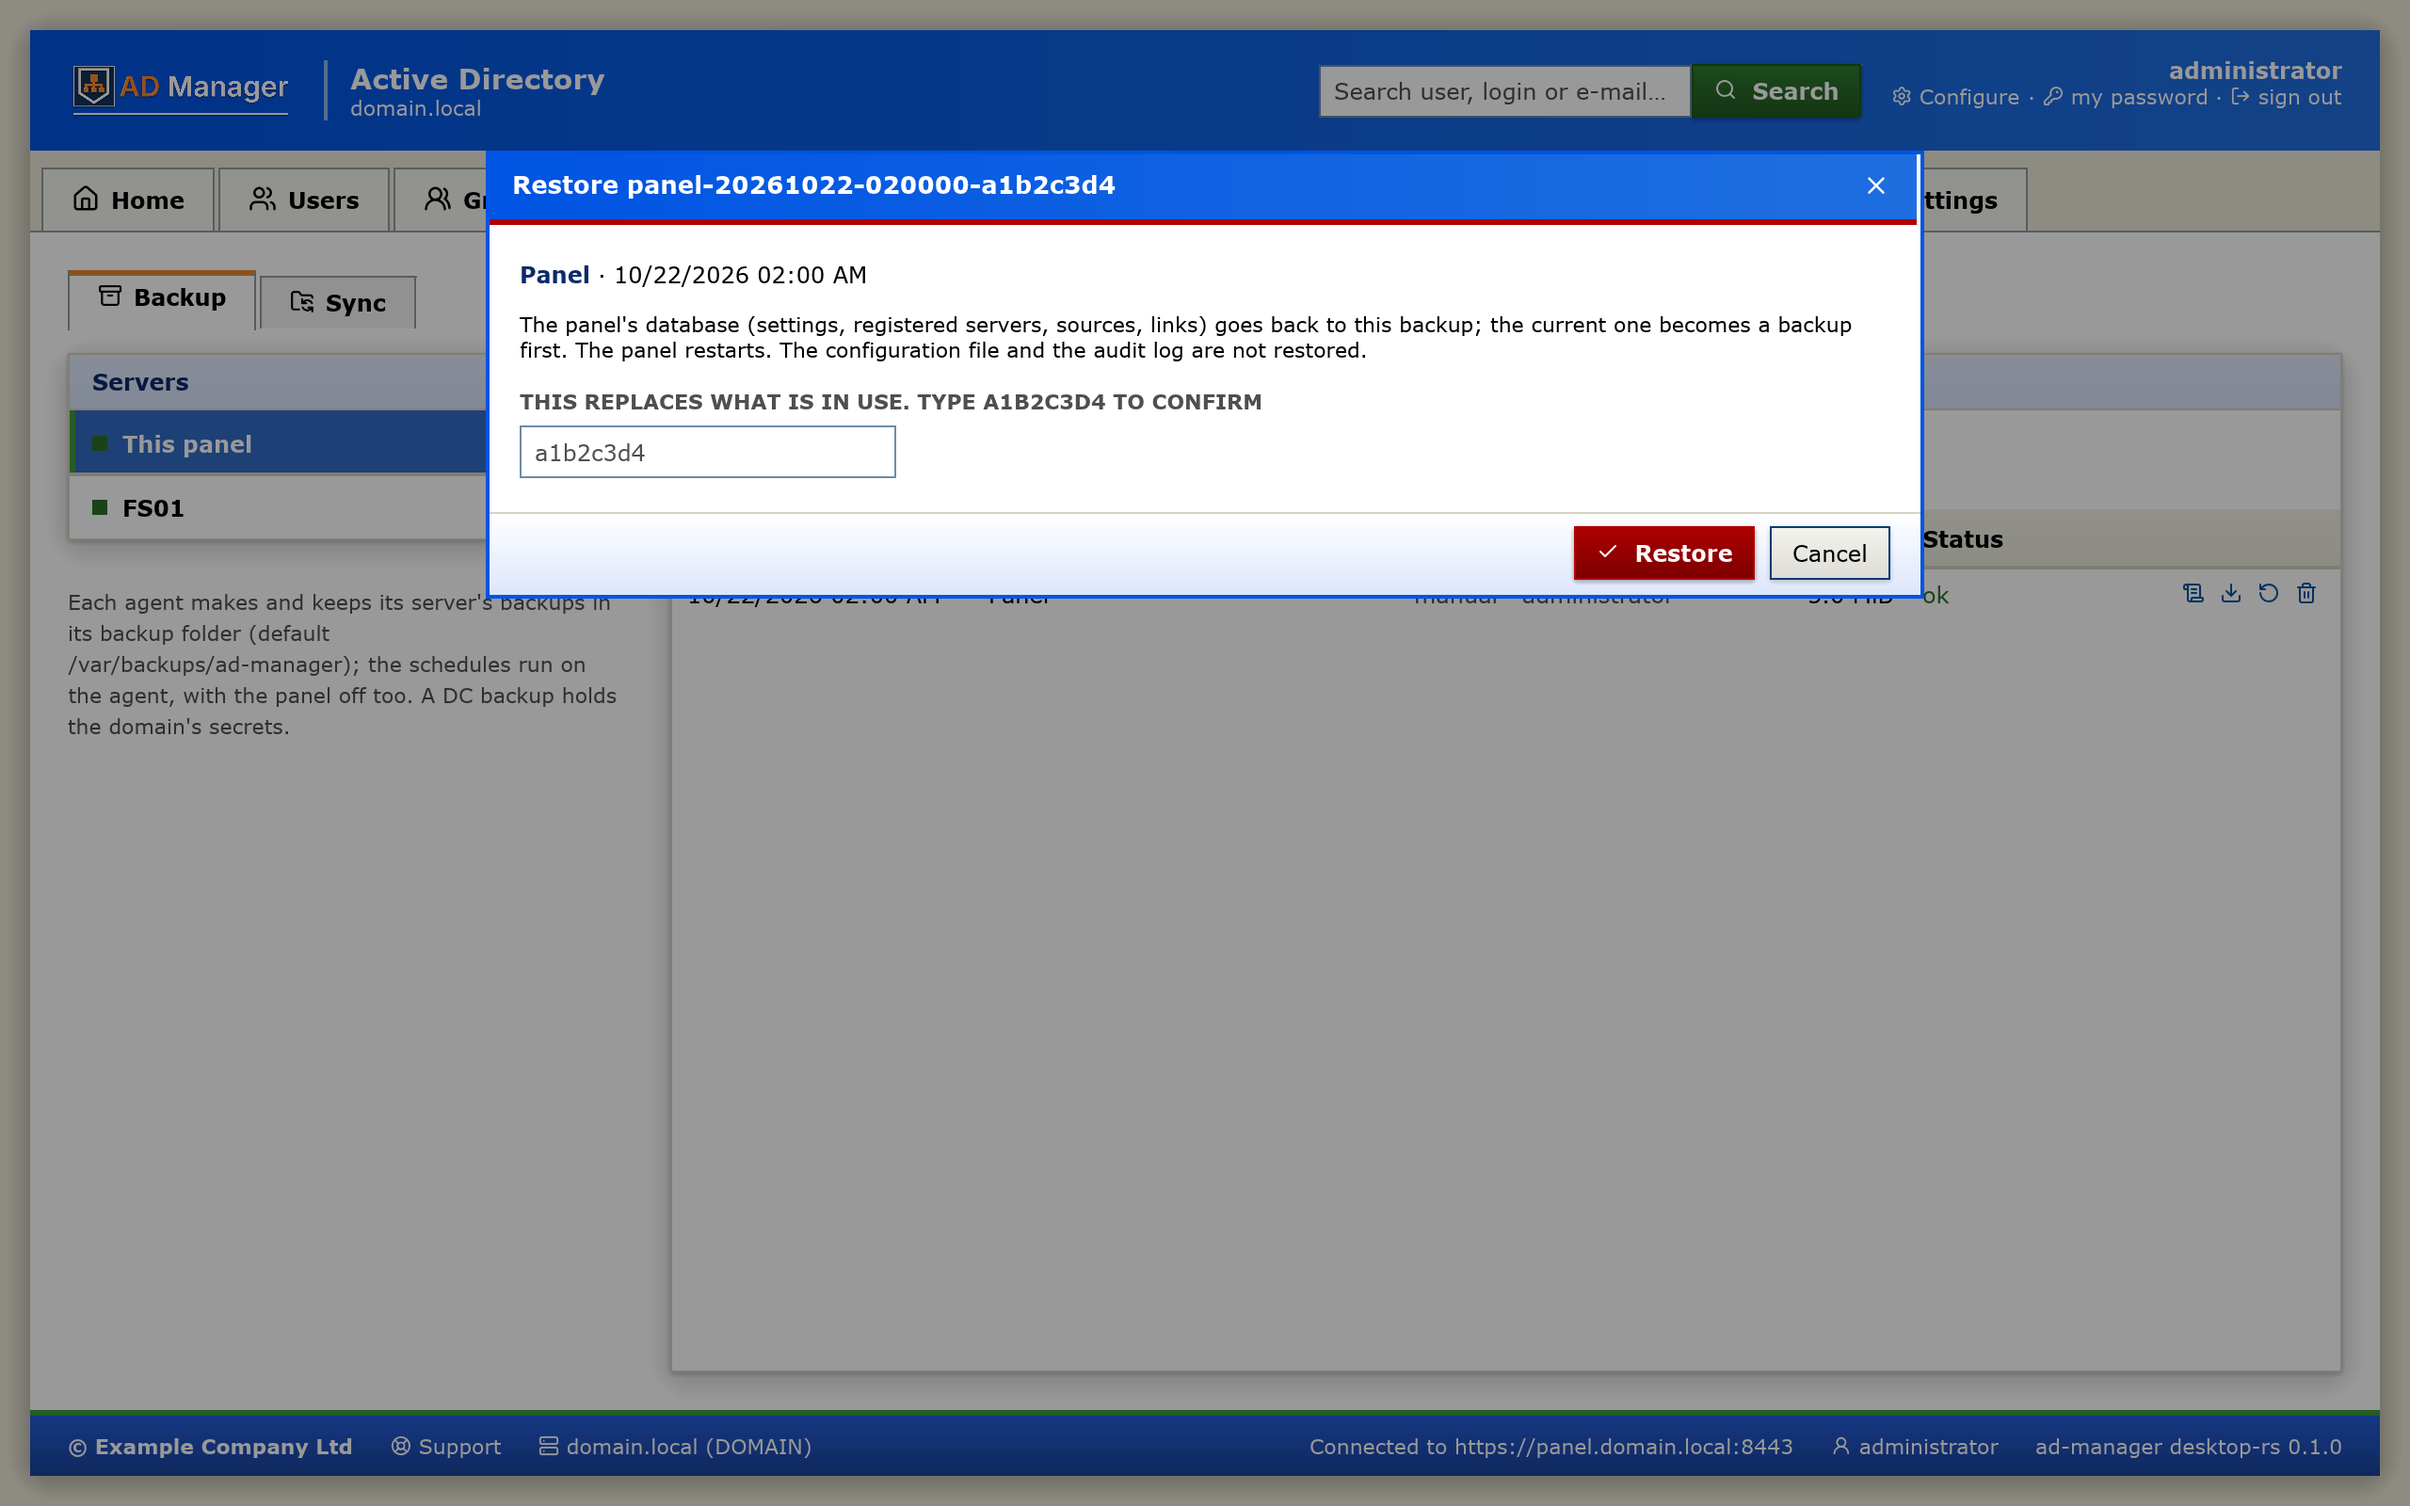
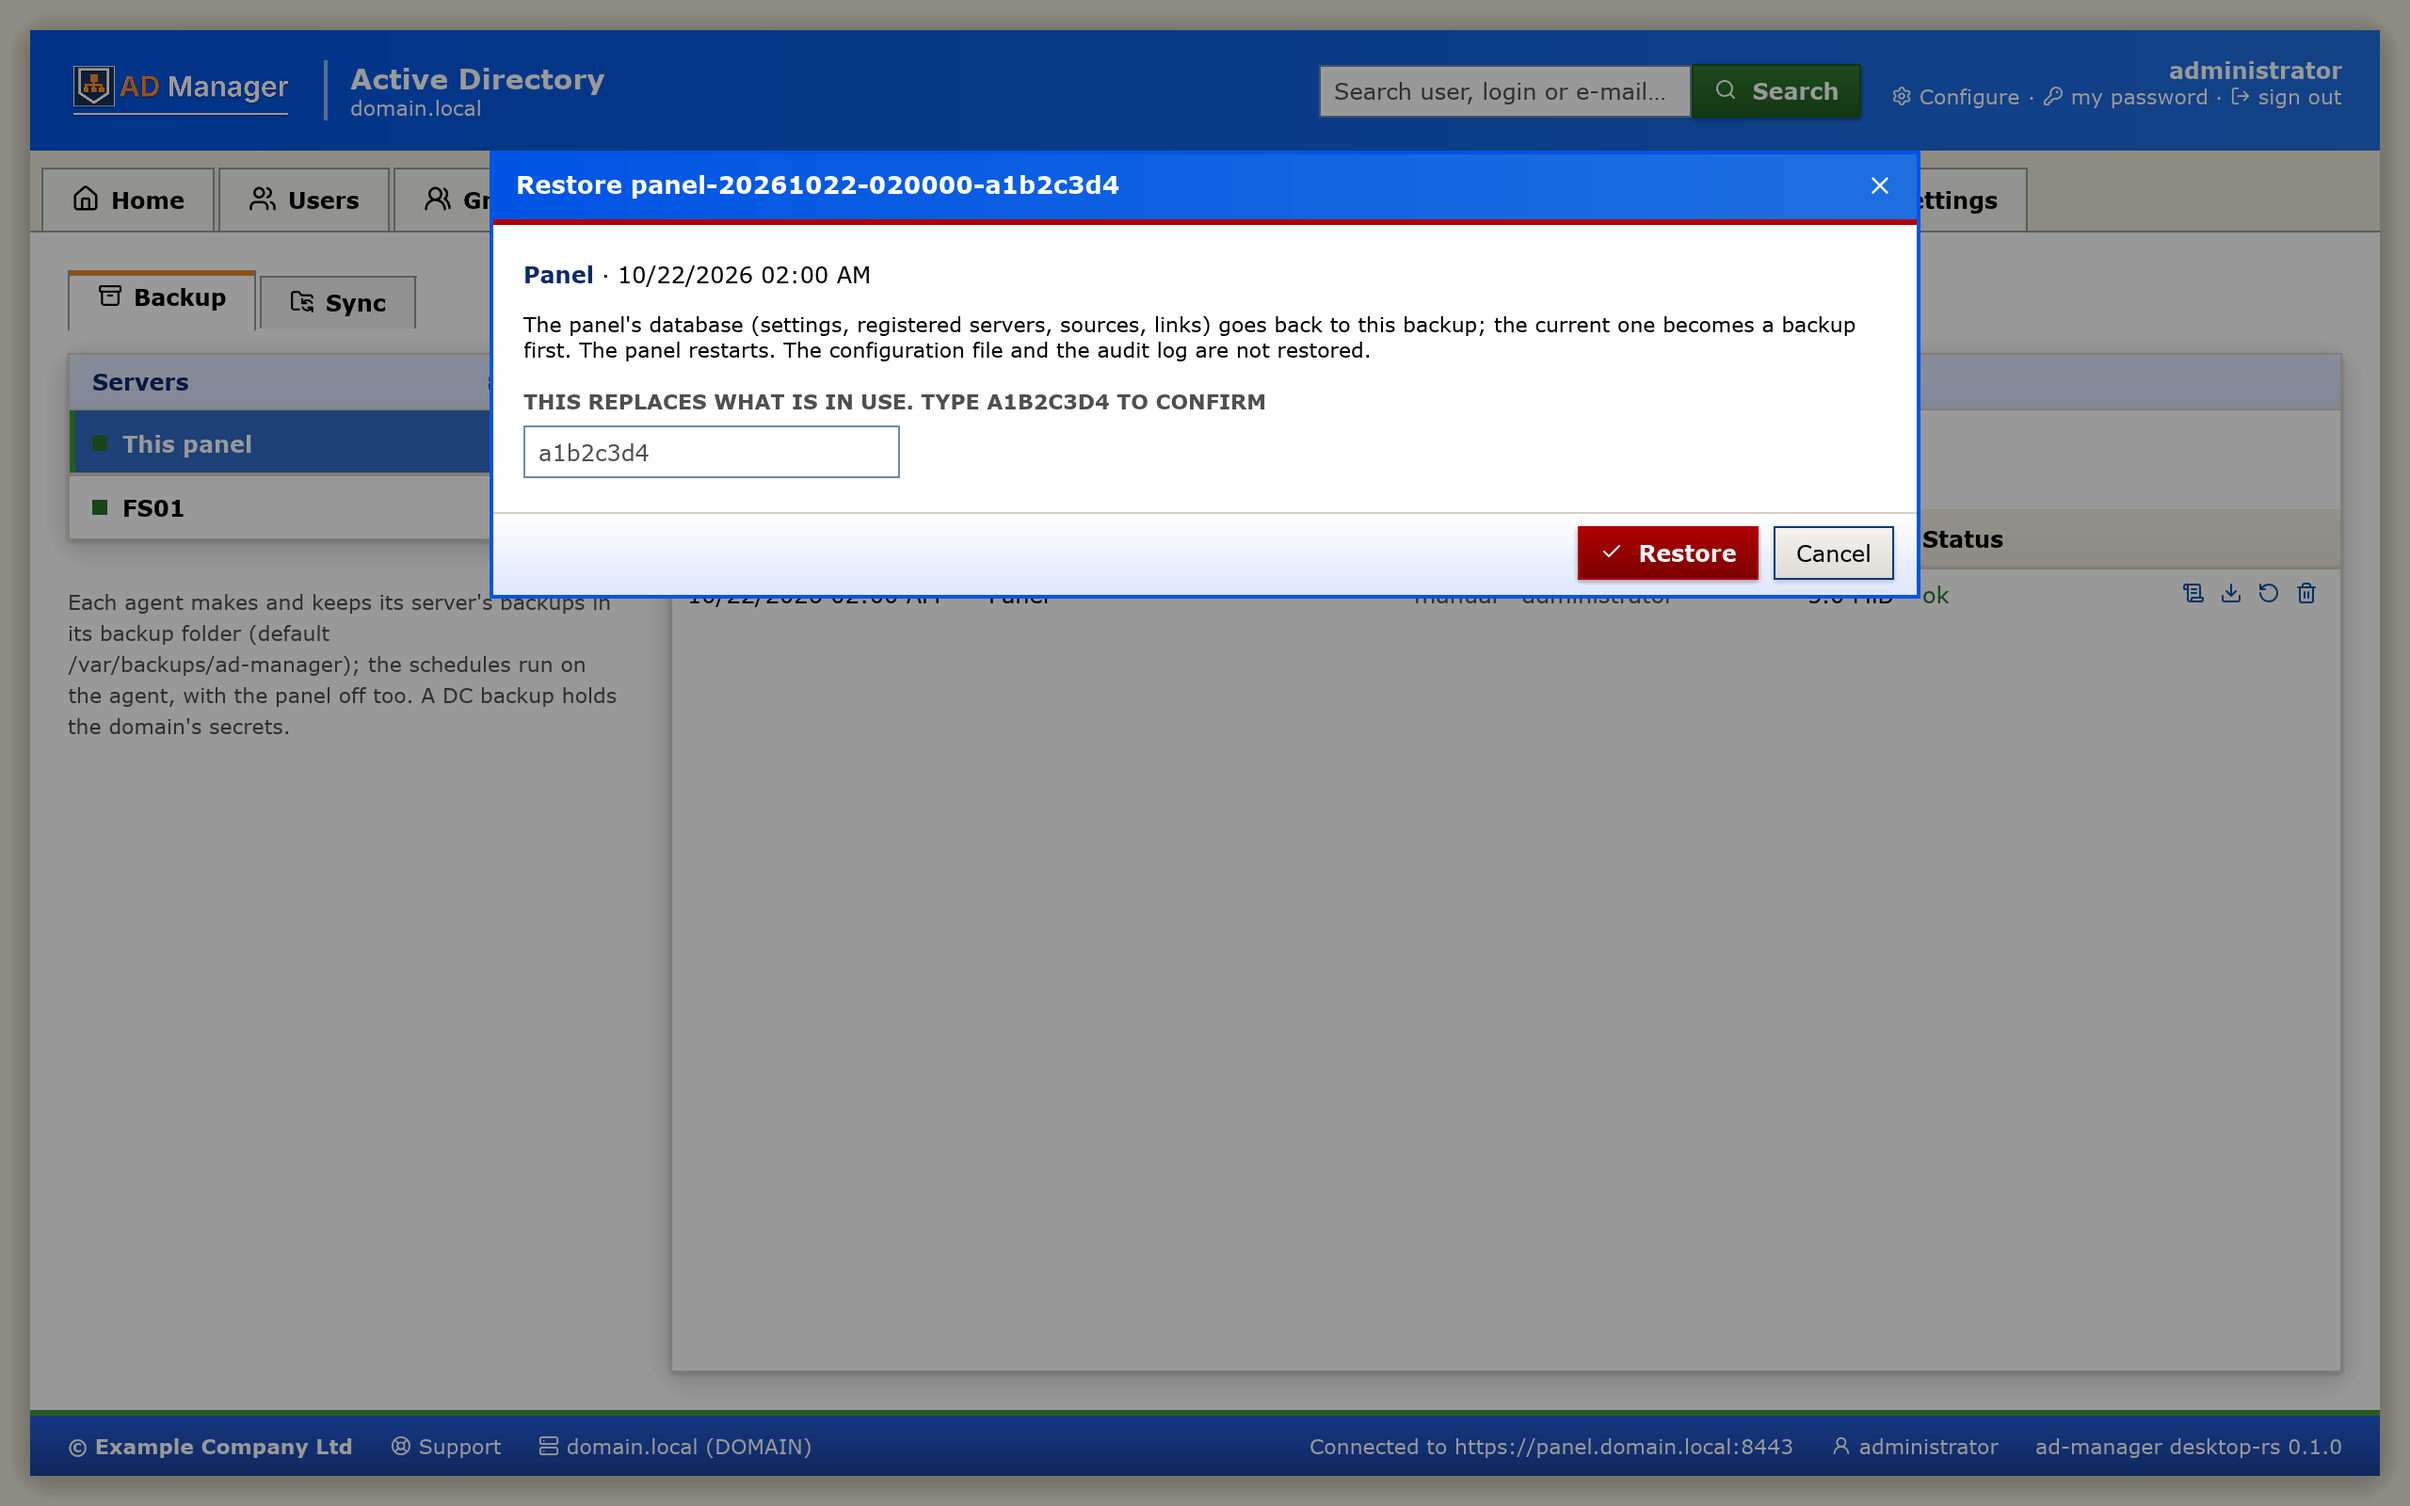
fix(desktop-rust): no white strip at a dialog's right edge
The footer's buttons were moved 4 points right with a negative space,
which widened the dialog by those 4 points past its title bar and card
tabs (a white strip under the frame). They are now laid out in a child
reaching into the body's margin, which leaves the dialog's width alone.

diff --git a/desktop-rust/crates/ui/src/modal.rs b/desktop-rust/crates/ui/src/modal.rs
@@ -204,33 +204,30 @@ fn draw_footer(ui: &mut Ui, look: &crate::style::Look, req: &FootReq) -> Footer 
     let mut f = Footer::default();
     ui.add_space(BODY.1);
     let under = ui.painter().add(egui::Shape::Noop);
-    let r = ui
-        .horizontal(|ui| {
-            // 8 above the buttons here, 8 under them in the body's bottom margin: the web's 44-point band
-            ui.set_min_height(crate::style::control_h() + FOOT_PAD);
-            ui.with_layout(egui::Layout::right_to_left(egui::Align::Max), |ui| {
-                // the web's footer padding (px-3) is 4 less than the body's
-                ui.add_space(12.0 - BODY.0);
-                match &req.ok {
-                    Some(label) => {
-                        // right to left: Cancel at the right end, the primary action before it
-                        f.cancel = widgets::button(ui, look, "", t("Cancel"), Kind::Secondary).clicked();
-                        let kind = if req.danger { Kind::Danger } else { Kind::Primary };
-                        f.ok = ui
-                            .add_enabled_ui(req.enabled, |ui| {
-                                widgets::button(ui, look, crate::icons::CHECK, label, kind)
-                            })
-                            .inner
-                            .clicked();
-                    }
-                    // only a way out: the web's ghost button
-                    None => f.ok = widgets::button(ui, look, "", &req.close, Kind::Secondary).clicked(),
-                }
-            });
-        })
-        .response;
+    // 8 above the buttons here, 8 under them in the body's bottom margin: the web's 44-point band
+    let h = crate::style::control_h() + FOOT_PAD;
+    let (r, _) = ui.allocate_exact_size(egui::vec2(ui.available_width(), h), egui::Sense::hover());
+    // the buttons 12 from the dialog's edge (the web's px-3, 4 less than the body's padding): drawn in a child
+    // reaching past the body's right margin, which does not widen the dialog
+    let row = egui::Rect::from_min_max(r.min, egui::pos2(r.right() + BODY.0 - 12.0, r.bottom()));
+    let mut buttons =
+        ui.new_child(egui::UiBuilder::new().max_rect(row).layout(egui::Layout::right_to_left(egui::Align::Max)));
+    buttons.set_clip_rect(ui.clip_rect().expand2(egui::vec2(BODY.0, 0.0)));
+    match &req.ok {
+        Some(label) => {
+            // right to left: Cancel at the right end, the primary action before it
+            f.cancel = widgets::button(&mut buttons, look, "", t("Cancel"), Kind::Secondary).clicked();
+            let kind = if req.danger { Kind::Danger } else { Kind::Primary };
+            f.ok = buttons
+                .add_enabled_ui(req.enabled, |ui| widgets::button(ui, look, crate::icons::CHECK, label, kind))
+                .inner
+                .clicked();
+        }
+        // only a way out: the web's ghost button
+        None => f.ok = widgets::button(&mut buttons, look, "", &req.close, Kind::Secondary).clicked(),
+    }
     // the band reaches the dialog's sides and bottom: past the body's padding
-    let band = r.rect.expand2(egui::vec2(BODY.0, 0.0)).with_max_y(r.rect.max.y + FOOT_PAD);
+    let band = r.expand2(egui::vec2(BODY.0, 0.0)).with_max_y(r.max.y + FOOT_PAD);
     let mut shapes = crate::depth::box_shapes(band, look.gradient("dialog-foot"), look.c("surface-2"), &[]);
     shapes.push(egui::Shape::hline(band.x_range(), band.top() + 0.5, egui::Stroke::new(1.0, look.c("line"))));
     let clip = ui.clip_rect().expand2(egui::vec2(BODY.0, BODY.1));
